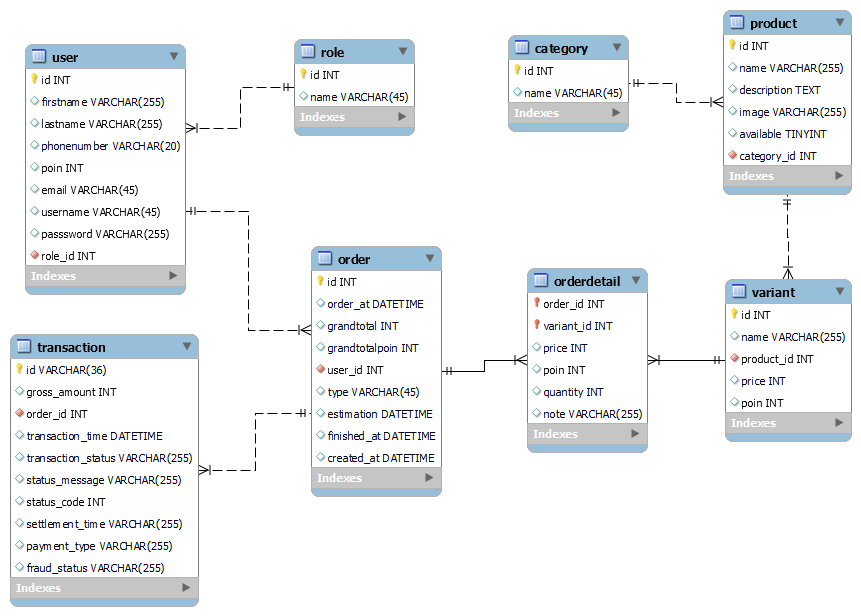
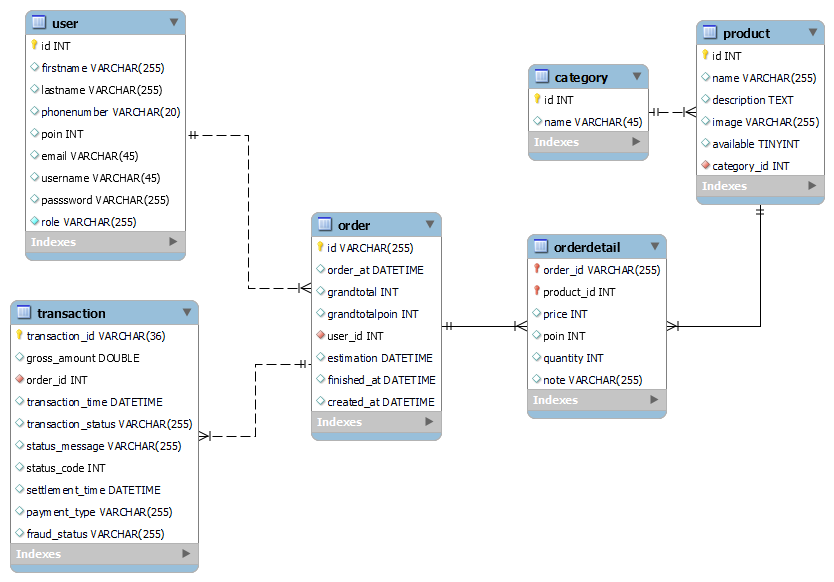
modif transaction

diff --git a/app/Http/Controllers/TransactionController.php b/app/Http/Controllers/TransactionController.php
@@ -32,8 +32,8 @@ class TransactionController extends Controller
     public function CreateTransaction(Request $request)
     {
         $maxId = Order::max('id');
-        $nextId = $maxId ? str_pad(++$maxId, 4, '0', STR_PAD_LEFT) : 'DS0001';
-
+        $nextId = $maxId ? str_pad(++$maxId, 4, '0', STR_PAD_LEFT) : 'TES0001';
+        Log::info("nextId : " . $nextId);
         DB::beginTransaction();
         try {
             $order = $request->except('order_detail');
@@ -118,14 +118,32 @@ class TransactionController extends Controller
             Log::info("finding a transaction");
             $transaction = Transaction::find($transactionData['transaction_id']);
             if ($transaction) {
-                if ($transaction->update($transactionData) === false) {
-                    Log::info("bad request");
-                }
-                Log::info("transaction updated");
+                $transaction->order_id = $transactionData['order_id'];
+                $transaction->gross_amount = $transactionData['gross_amount'];
+                $transaction->transaction_time = $transactionData['transaction_time'];
+                $transaction->transaction_status = $transactionData['transaction_status'];
+                $transaction->status_message = $transactionData['status_message'];
+                $transaction->status_code = $transactionData['status_code'];
+                $transaction->settlement_time = isset($transactionData['settlement_time']) ? $transactionData['settlement_time'] : null;
+                $transaction->payment_type = isset($transactionData['payment_type']) ? $transactionData['payment_type'] : null;
+                $transaction->fraud_status = $transactionData['fraud_status'];
+                $transaction->save();
                 DB::commit();
+                return;
             }
             Log::info("no trasaction found");
-            Transaction::create($transactionData);
+            $transaction = new Transaction();
+            $transaction->transaction_id = $transactionData['transaction_id'];
+            $transaction->order_id = $transactionData['order_id'];
+            $transaction->gross_amount = $transactionData['gross_amount'];
+            $transaction->transaction_time = $transactionData['transaction_time'];
+            $transaction->transaction_status = $transactionData['transaction_status'];
+            $transaction->status_message = $transactionData['status_message'];
+            $transaction->status_code = $transactionData['status_code'];
+            $transaction->settlement_time = isset($transactionData['settlement_time']) ? $transactionData['settlement_time'] : null;
+            $transaction->payment_type = isset($transactionData['payment_type']) ? $transactionData['payment_type'] : null;
+            $transaction->fraud_status = $transactionData['fraud_status'];
+            $transaction->save();
             DB::commit();
         } catch (Exception $e) {
             DB::rollBack();

diff --git a/database/migrations/2024_05_12_070844_create_transactions_table.php b/database/migrations/2024_05_12_070844_create_transactions_table.php
@@ -17,14 +17,14 @@ class CreateTransactionsTable extends Migration
             $table->uuid('transaction_id')->primary();
             $table->string('order_id');
             $table->foreign('order_id')->references('id')->on('orders');
-            $table->integer('gross_amount');
-            $table->dateTime('transaction_time');
-            $table->enum('transaction_status', ['pending', 'settlement', 'expire']);
-            $table->string('status_message');
-            $table->integer('status_code');
-            $table->dateTime('settlement_time');
-            $table->string('payment_type');
-            $table->boolean('fraud_status');
+            $table->double('gross_amount');
+            $table->dateTime('transaction_time')->nullable();
+            $table->string('transaction_status')->nullable();
+            $table->string('status_message')->nullable();
+            $table->integer('status_code')->nullable();
+            $table->dateTime('settlement_time')->nullable();
+            $table->string('payment_type')->nullable();
+            $table->string('fraud_status')->nullable();
             $table->timestamps();
         });
     }
